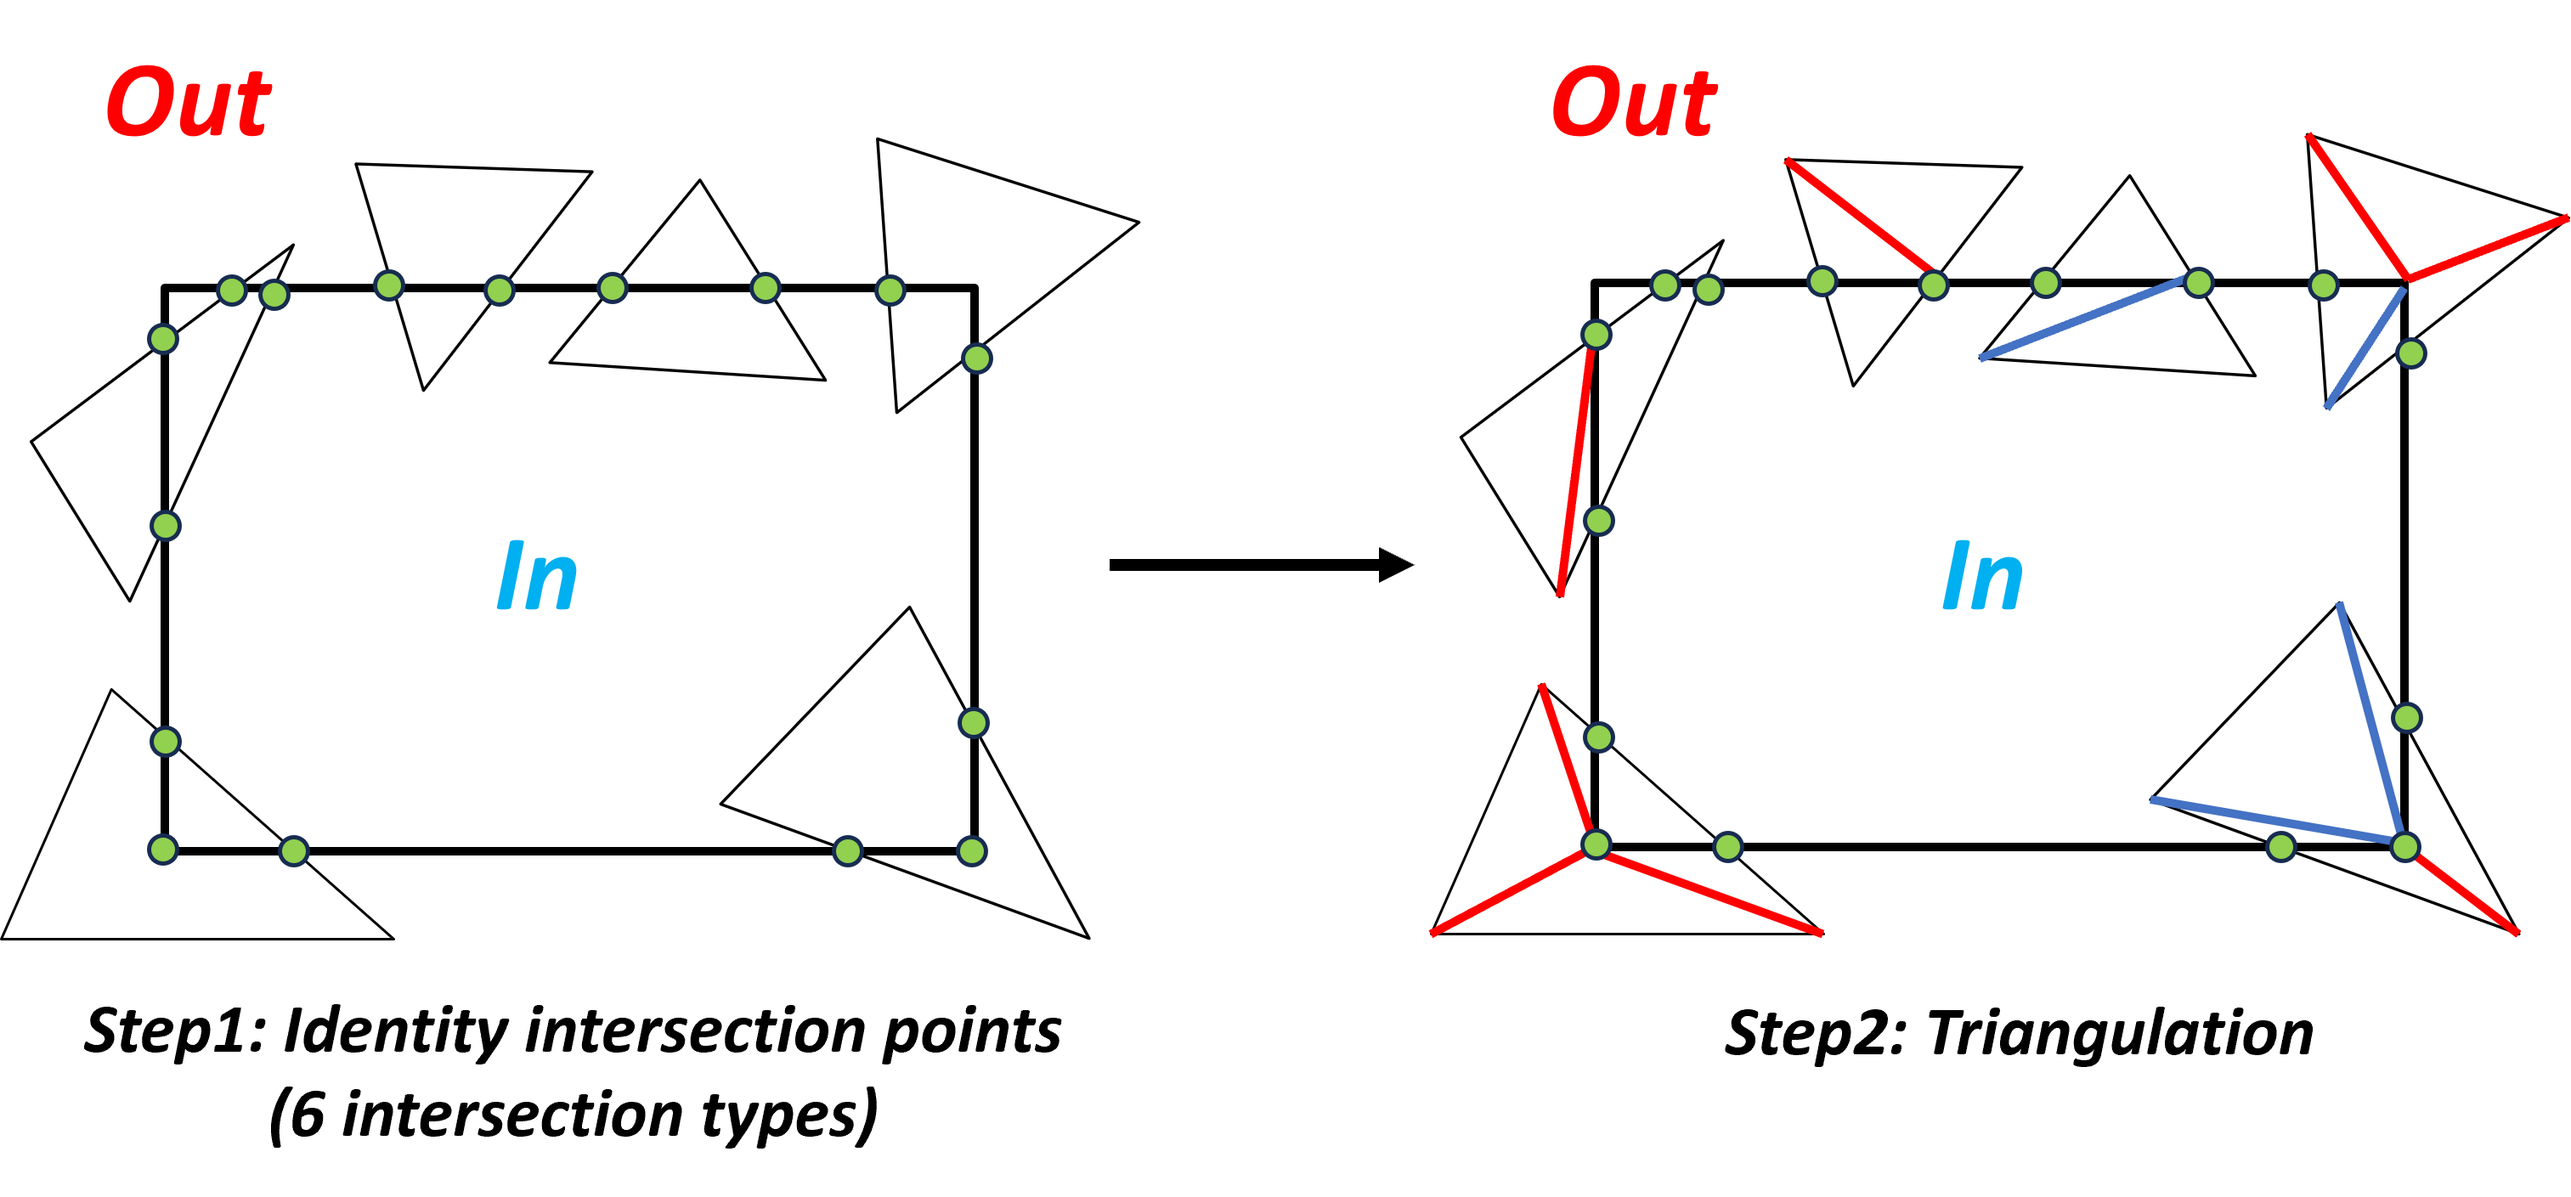
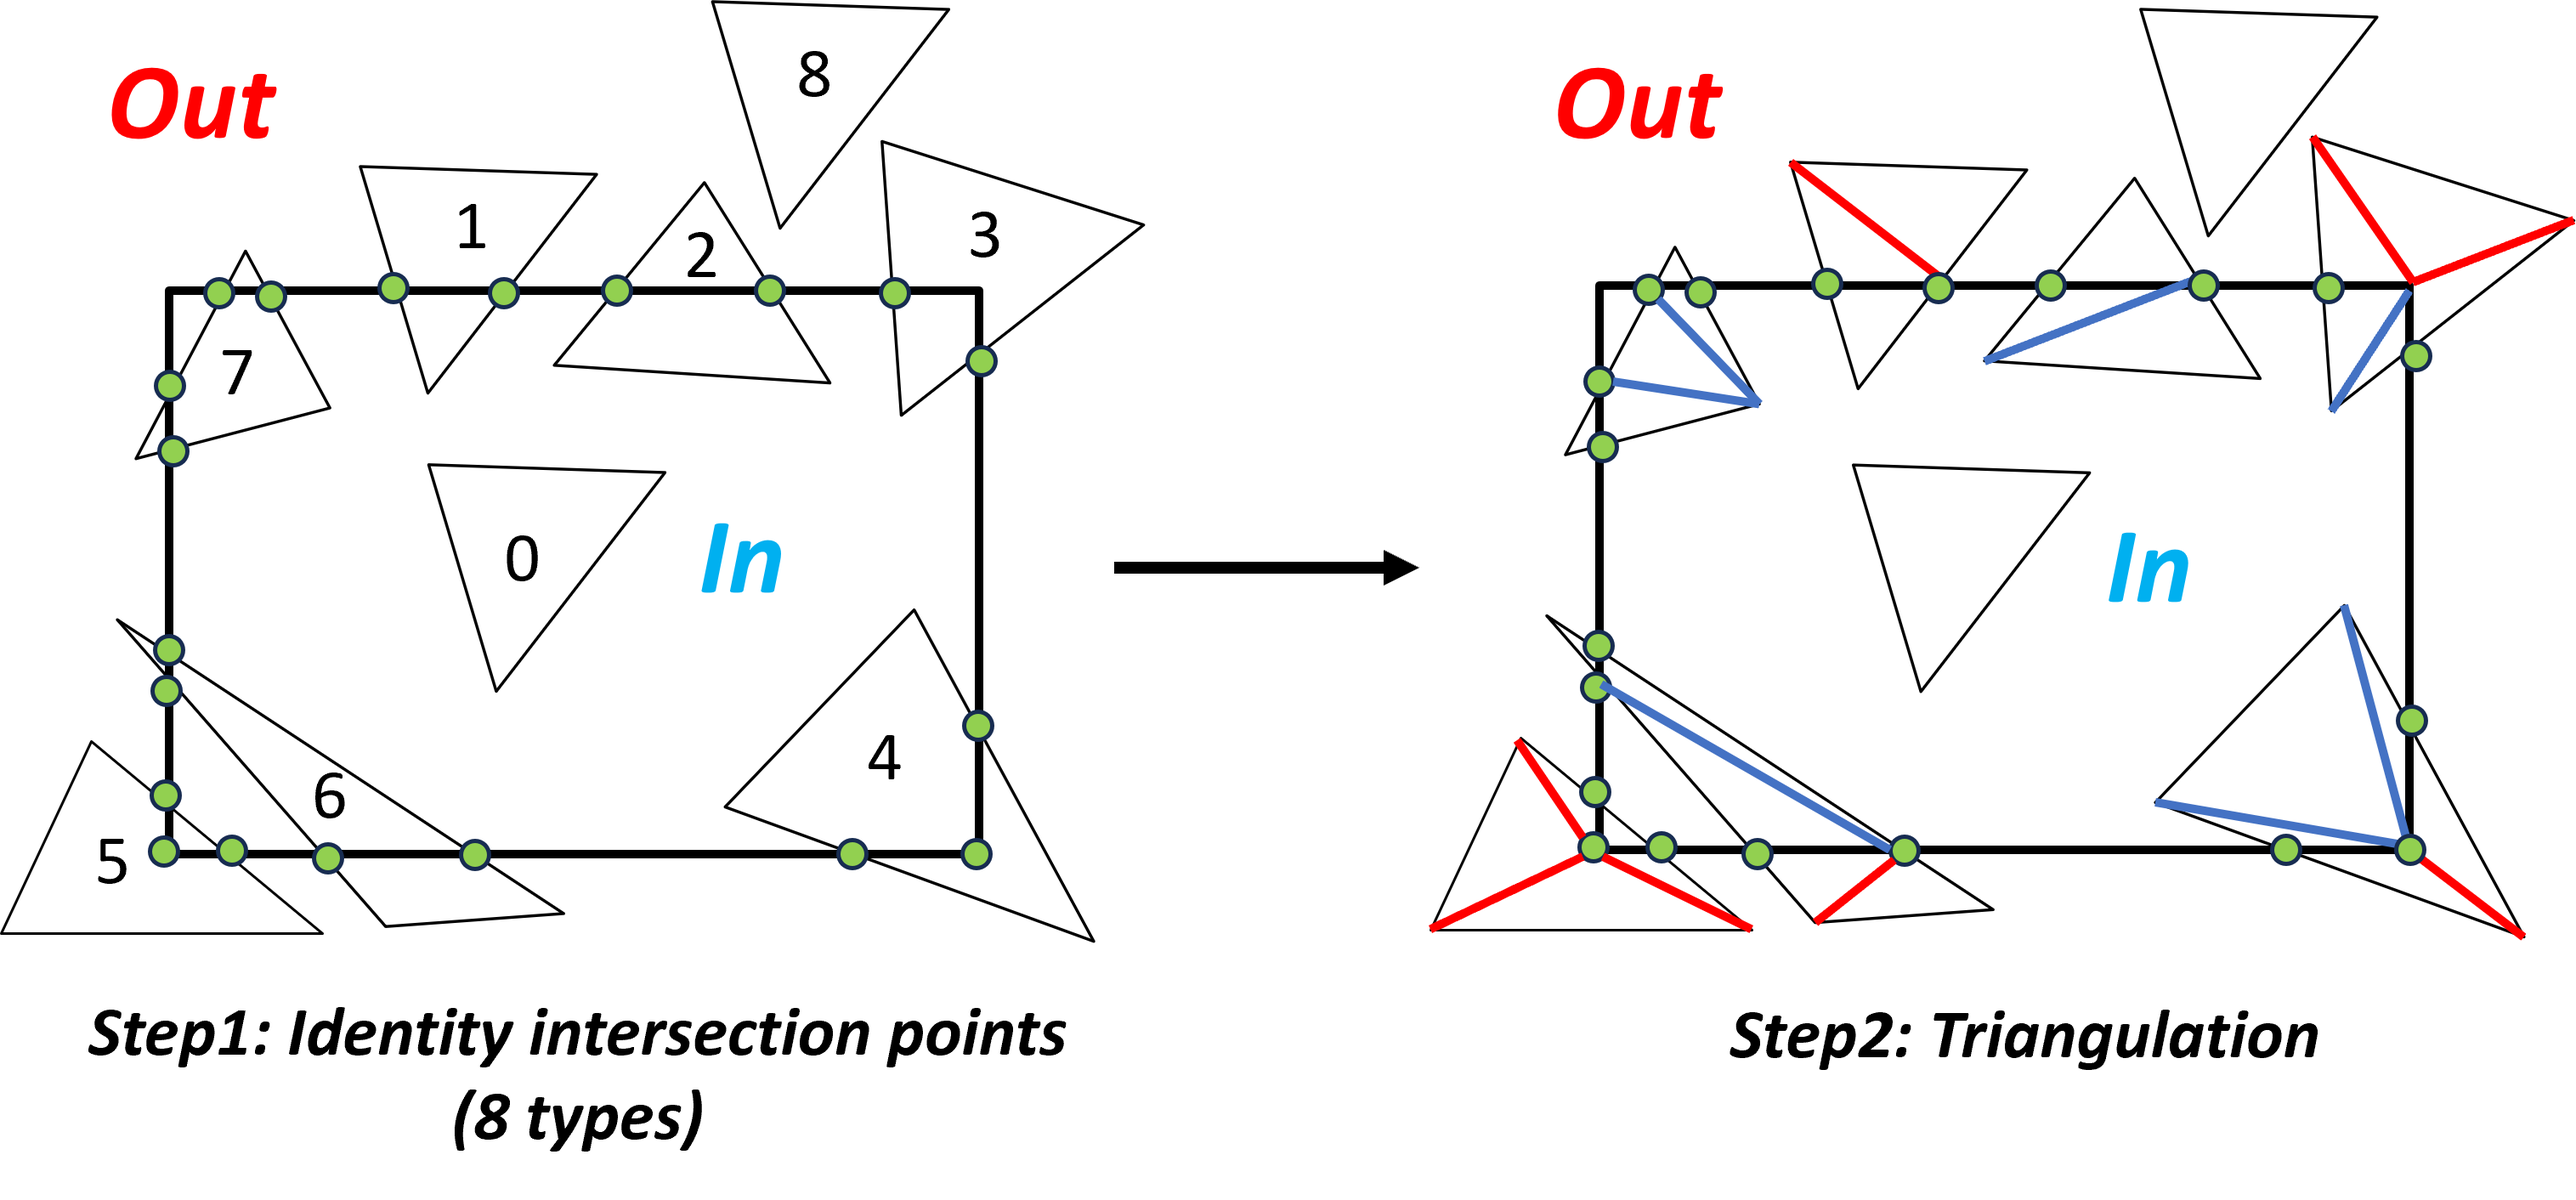
minor: update the readme

diff --git a/README.md b/README.md
@@ -1,14 +1,53 @@
 # Mesh Trimming
 
+## Introduction
+We are releasing our mesh editing tool as open-source software to facilitate efficient mesh trimming. Unlike existing tools like CloudCompare and Open3D, which simply remove triangles outside or inside AOi, leading a rough boundary, our tool takes a more precise approach. It carefully splits triangles that intersect with the AOI into smaller sub-triangles, ensuring a smooth clipping boundary. 
+
+* Support cropping and keep the inside part or outside part mesh.
+* Support multiple cropping at the same time. 
+* Time complexity: O(N+k), where N is the number of triangles within the mesh and k is the number of triangles intersecting with the AOI.
+* AOI format: rectangle. 
+
+## Usage
+```
+Trimming.exe aoi_info.txt keep_aoi[0: keep inside part, 1:keep outside part]
+
+crop_info_txt: each line contains seven elements including output_path, xmin, xmax, ymin, ymax, zmin, zmax
+```
+
+
 ## Results
-### Rendered mesh
+### Mesh Visualization
 ![alt text](./demo/ill1.png)
+
+(a) Original mesh
+
 ![alt text](./demo/ill_in.png)
+
+(b) Mesh part inside the AOI
+
 ![alt text](./demo/ill_out.png)
 
-## Topology
+(c) Mesh part outside the AOI
+
+## Topology visualization
 ![alt text](./demo/top-1.png)
+
+(a) Original topology
+
 ![alt text](./demo/top-2.png)
+
+(b) Cropped topology
 
 ## Process
 ![alt text](./demo/pipeline.png)
+
+(a) Overall pipeline
+
+![alt text](./demo/table.png)
+
+(b) Intersection types summary
+
+## Contact:
+Ningli Xu: xu.3961@buckeyemail.osu.edu , [website](https://ninglixu.github.io/)
+
